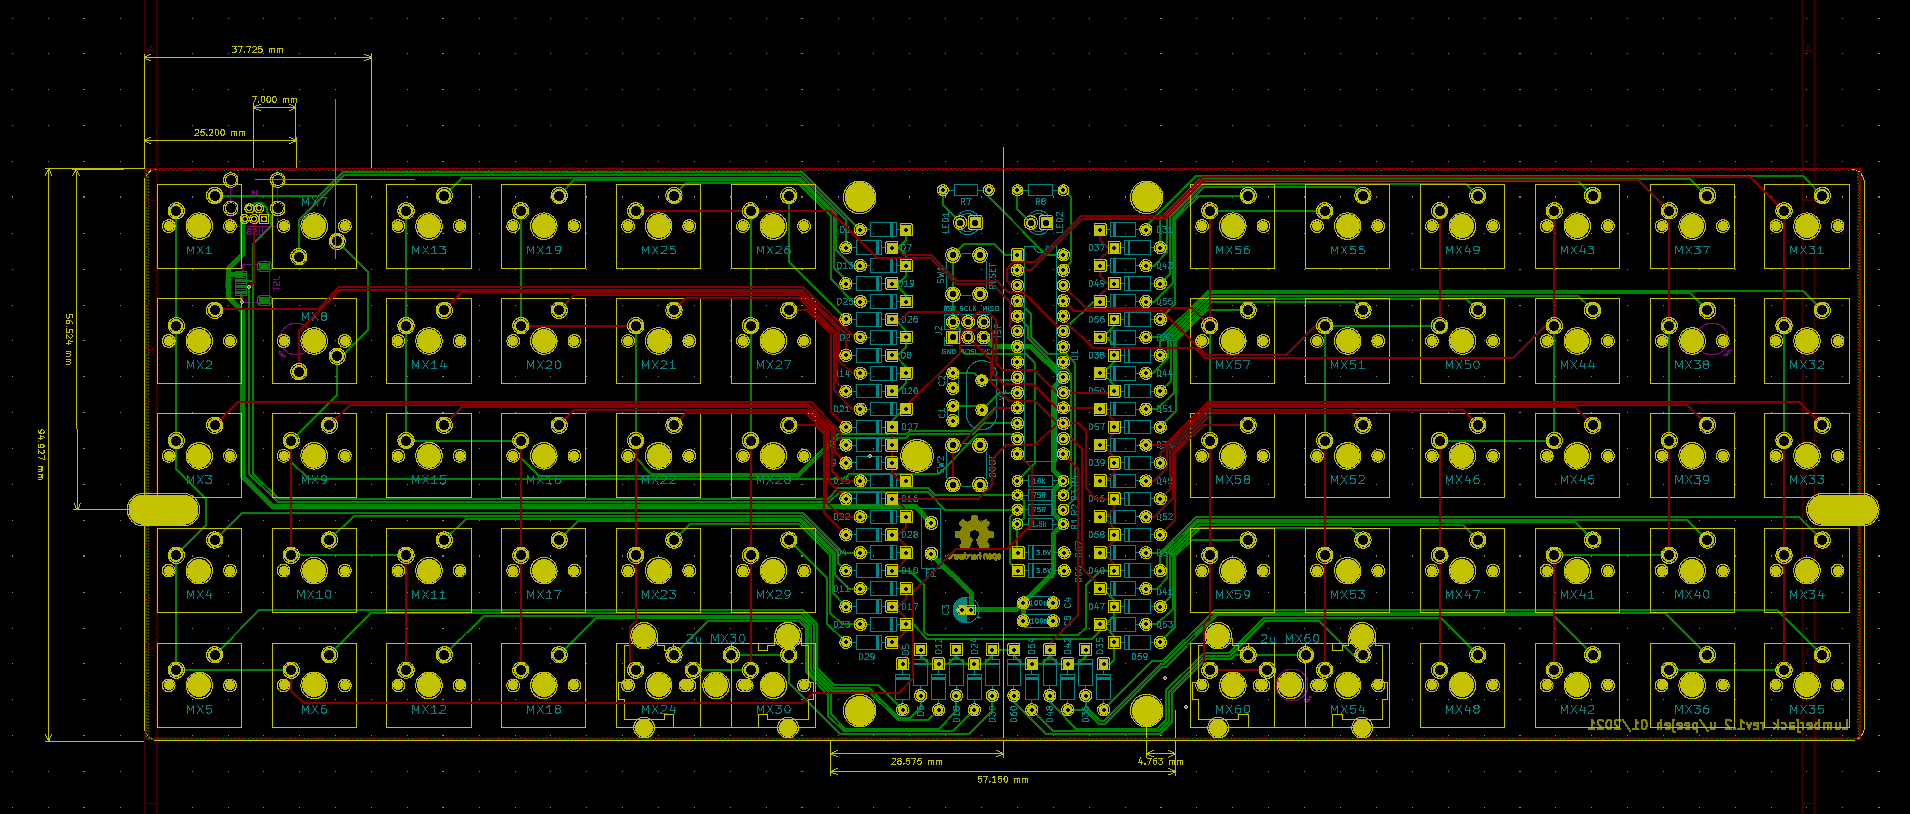
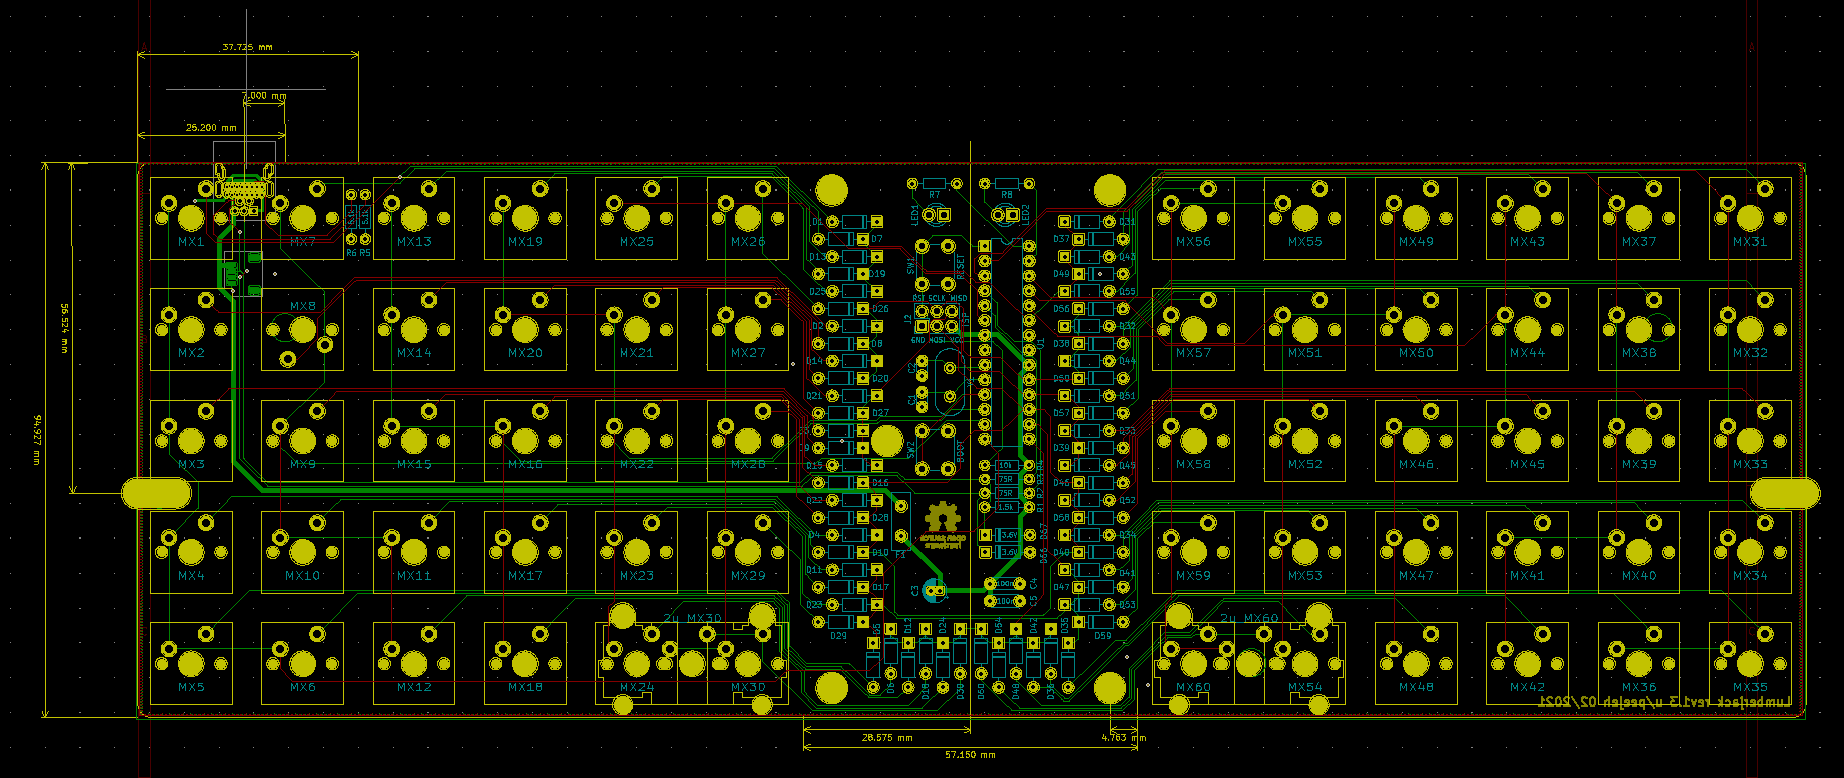
Update documentaion with USB-C information

diff --git a/README.md b/README.md
@@ -29,13 +29,14 @@ Inspired by the [Plaid keyboard](https://github.com/hsgw/plaid).
 | D1-65     | 65    | diode 1n4148                                      |
 | D66,D67   | 2     | zener diode 3.6V                                  |
 | F1        | 1     | polyfuse 100mA                                    |
-| J1        | 1     | USB miniB connector Omron XM7D-0512 or equivalent |
+| J1        | 1     | USB miniB connector Omron XM7D-0512 or USB-C connector USB4085-GF-A |
 | J2        | 1     | 2x3 pin header                                    |
 | LED1,LED2 | 2     | 3mm LED                                           |
 | MX1-65    | 62-65 | MX PCB mount (5 pin) keyboard switch              |
 | R1,R7,R8  | 3     | resistor 1.5kΩ                                    |
 | R2,R3     | 2     | resistor 75Ω                                      |
 | R4        | 1     | resistor 10kΩ                                     |
+| R5,R6     | 2     | resistor 5.1kΩ for USB-C only                     |
 | SW1,SW2   | 2     | 6mm tactile switch                                |
 | U1        | 1     | ATMEGA328P                                        |
 | Y1        | 1     | crystal 16MHz                                     |
@@ -63,11 +64,26 @@ Take care to put the correct value resistors and capacitors in the correct place
 
 Ensure that polarised components (diodes, LEDs, electrolytic capacitor (C3), IC socket) are in the correct orientation. The square pad is for the negative side of the component; for a diode this means the side with the black stripe; for LEDs and C3 the short leg is the cathode and goes in the square pad.
 
+## USB-C
+
+If you are installing a USB-C connector you will need to install two extra resistors (R5 & R6).
+
+Due to the small size of the pins on the connector you will need to use a different soldering technique called drag soldering.
+
+* Insert the USB port into the board, the pins are very small and might need bending slightly so that they align correctly.
+* Flip the board over and solder one of the legs into place.
+* Reheat the pad and press the USB port firmly into place to ensure it sits flat before then soldering the other 3 legs.
+* Apply no-clean flux across all of the small pins.
+* Apply a small amount of solder and drag your iron across the pins, repeat until all holes are filled with solder.
+* The flux will cause the solder to flow to the pins and avoid creating solder bridges between the pins.
+
+## Switches
+
 When fitting key switches, the switches at the 'Q' and 'P' positions on the 2nd row will fowl on the standoffs in your keyboard case, so you need to trim down one of the stabilizing pins and part of the center pin to ensure the PCB fits flush within the case.
 
 If you are using a 2u key on the right hand side, you will also need to trim down the center pin so that it does not fowl on the standoff. The position the case standoffs will be is marked on the soldermask of the underside of the PCB.
 
-Note also that the switches at the '1' and 'Q' positions are upsidedown so that the switch pins do not interfere with the USB connector or case standoffs.
+Note also that the switches at the 'Q' position is upsidedown so that the switch pins do not interfere with the case standoffs.
 
 # Bootloader
 
